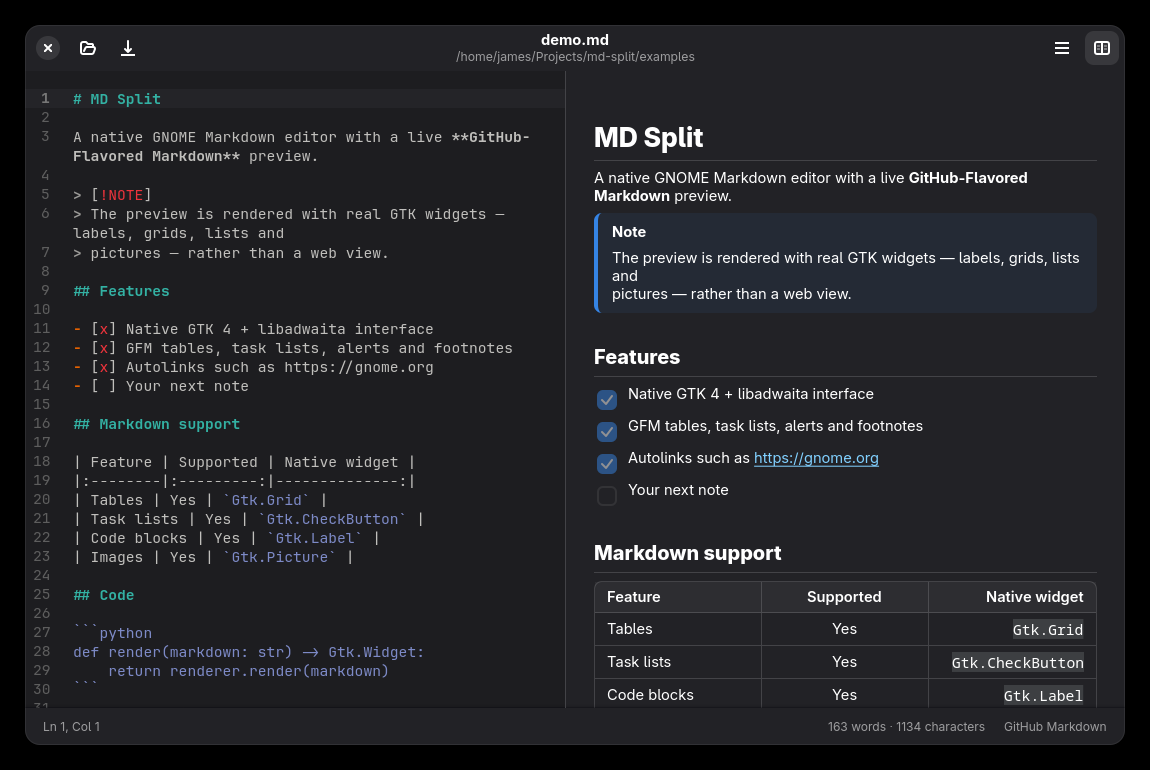
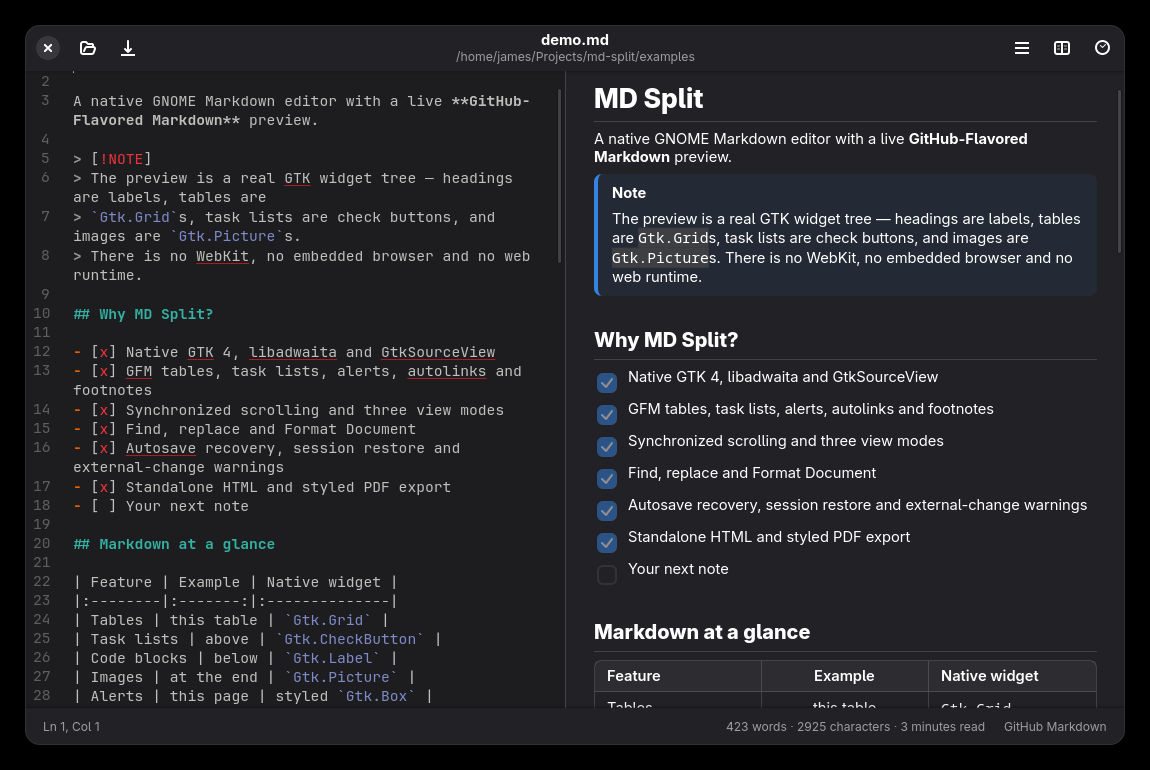
docs: revise documentation and example for new screenshot tool and v1.1.0

diff --git a/examples/demo.md b/examples/demo.md
@@ -3,37 +3,89 @@
 A native GNOME Markdown editor with a live **GitHub-Flavored Markdown** preview.
 
 > [!NOTE]
-> The preview is rendered with real GTK widgets — labels, grids, lists and
-> pictures — rather than a web view.
+> The preview is a real GTK widget tree — headings are labels, tables are
+> `Gtk.Grid`s, task lists are check buttons, and images are `Gtk.Picture`s.
+> There is no WebKit, no embedded browser and no web runtime.
 
-## Features
+## Why MD Split?
 
-- [x] Native GTK 4 + libadwaita interface
-- [x] GFM tables, task lists, alerts and footnotes
-- [x] Autolinks such as https://gnome.org
+- [x] Native GTK 4, libadwaita and GtkSourceView
+- [x] GFM tables, task lists, alerts, autolinks and footnotes
+- [x] Synchronized scrolling and three view modes
+- [x] Find, replace and Format Document
+- [x] Autosave recovery, session restore and external-change warnings
+- [x] Standalone HTML and styled PDF export
 - [ ] Your next note
 
-## Markdown support
+## Markdown at a glance
 
-| Feature | Supported | Native widget |
-|:--------|:---------:|--------------:|
-| Tables | Yes | `Gtk.Grid` |
-| Task lists | Yes | `Gtk.CheckButton` |
-| Code blocks | Yes | `Gtk.Label` |
-| Images | Yes | `Gtk.Picture` |
+| Feature | Example | Native widget |
+|:--------|:-------:|:--------------|
+| Tables | this table | `Gtk.Grid` |
+| Task lists | above | `Gtk.CheckButton` |
+| Code blocks | below | `Gtk.Label` |
+| Images | at the end | `Gtk.Picture` |
+| Alerts | this page | styled `Gtk.Box` |
+
+> [!TIP]
+> Press **F9** to cycle between both panes, source only, and preview only.
 
 ## Code
 
 ```python
 def render(markdown: str) -> Gtk.Widget:
-    return renderer.render(markdown)
+    return MarkdownRenderer().render(markdown)
 ```
+
+Inline code such as `Ctrl+Shift+R` formats the document or selection.
+
+## Formatting
+
+**Bold**, *italic*, ~~strikethrough~~, <u>underline</u>, and
+[a link to the project](https://github.com/james2doyle/md-split).
 
 > Markdown is a lightweight markup language for creating formatted text using a
 > plain-text editor.
 
-Read more at [the CommonMark spec](https://commonmark.org/) or
-[GitHub's GFM spec](https://github.github.com/gfm/).
+## Try it
+
+1. Open a Markdown file with **Ctrl+O**.
+2. Press **F9** to change the view.
+3. Format the document with **Ctrl+Shift+R**.
+4. Export HTML or a styled PDF from the main menu.
+
+## Keyboard shortcuts
+
+| Shortcut | Action |
+|:---------|:-------|
+| Ctrl+N | New document |
+| Ctrl+O | Open |
+| Ctrl+S | Save |
+| Ctrl+Shift+S | Save As |
+| Ctrl+F | Find |
+| Ctrl+H | Replace |
+| Ctrl+Shift+R | Format document or selection |
+| F9 | Cycle view mode |
+| Ctrl+, | Preferences |
+
+## Export and recovery
+
+Export HTML or a styled PDF from the main menu. Autosave recovery drafts,
+session restore, recent files and optional timestamped backups keep your work
+safe. Spell checking uses libspelling when a system dictionary is available.
+
+## Security
+
+Raw HTML is disabled. A balanced `<u>...</u>` pair is the only inline HTML tag
+rendered as formatting. Remote images stay off until you enable **Load Remote
+Images**; local images are decoded asynchronously with size limits.
+
+## Learn more
+
+- [Architecture](https://github.com/james2doyle/md-split/blob/main/docs/architecture.md)
+- [Markdown support](https://github.com/james2doyle/md-split#markdown-support)
+- [CommonMark spec](https://commonmark.org/)
+- [GitHub GFM spec](https://github.github.com/gfm/)
 
 Footnote reference[^native].
 

diff --git a/docs/screenshots.md b/docs/screenshots.md
@@ -8,14 +8,15 @@ It is the public face of the app, so update it deliberately.
 - Path: `docs/screenshot.png`
 - Size: `1150 × 770`
 - Format: 8-bit RGB PNG (no alpha)
-- Content: MD Split showing the editor and native preview side by side
+- Content: MD Split showing the editor and native preview side by side in the
+  dark theme
 
 ## Capture checklist
 
 Use a normal desktop session and a clean, representative document:
 
 1. Launch the installed app with the bundled demo or a short Markdown file.
-2. Use the default light Adwaita theme and 100% scaling.
+2. Use the app’s dark theme (`--dark`) and 100% scaling.
 3. Show both panes and enough preview content to demonstrate native rendering.
 4. Avoid personal file names, notifications, browser tabs, and unrelated
    windows.
@@ -28,15 +29,14 @@ Use a normal desktop session and a clean, representative document:
 
 7. Check that the image is sharp at 1× and still readable when scaled down.
 
-GNOME's screenshot UI, Spectacle, Flameshot, or `gnome-screenshot` are all
-acceptable. The important part is the content and dimensions, not the tool.
+Use `gridhand` CLI tool for taking screenshots: `gridhand screenshot --window "MD Split" --output /tmp/md-split-window.png`.
 
 ## AppStream URL
 
 The AppStream screenshot is loaded from the release tag, not from `main`:
 
 ```xml
-<image type="source" width="1150" height="770">https://raw.githubusercontent.com/james2doyle/md-split/v1.0.0/docs/screenshot.png</image>
+<image type="source" width="1150" height="770">https://raw.githubusercontent.com/james2doyle/md-split/v1.1.0/docs/screenshot.png</image>
 ```
 
 When preparing a new release, update the tag in

diff --git a/AGENTS.md b/AGENTS.md
@@ -48,11 +48,13 @@ changes, and ask first.
 
 Never drive the GUI, synthesize input, or automate the desktop without explicit
 permission for that run. Before launching the app, moving or clicking the
-pointer, typing, sending keyboard shortcuts, or using tools such as `ydotool`,
-`wtype`, `xdotool`, accessibility APIs, or compositor automation, tell the user
-exactly what will happen and ask whether they are ready. Wait for an explicit
-yes. Headless tests and static checks do not require this; visual checks that
-launch the app do.
+pointer, typing, sending keyboard shortcuts, or using tools, accessibility APIs,
+or compositor automation, tell the user exactly what will happen and ask whether
+they are ready. Wait for an explicit yes. Headless tests and static checks do not
+require this; visual checks that launch the app do.
+
+Use `gridhand` CLI tool desktop automation. Run `gridhand --help` for detailed
+list of commands.
 
 ## Hard boundaries
 
